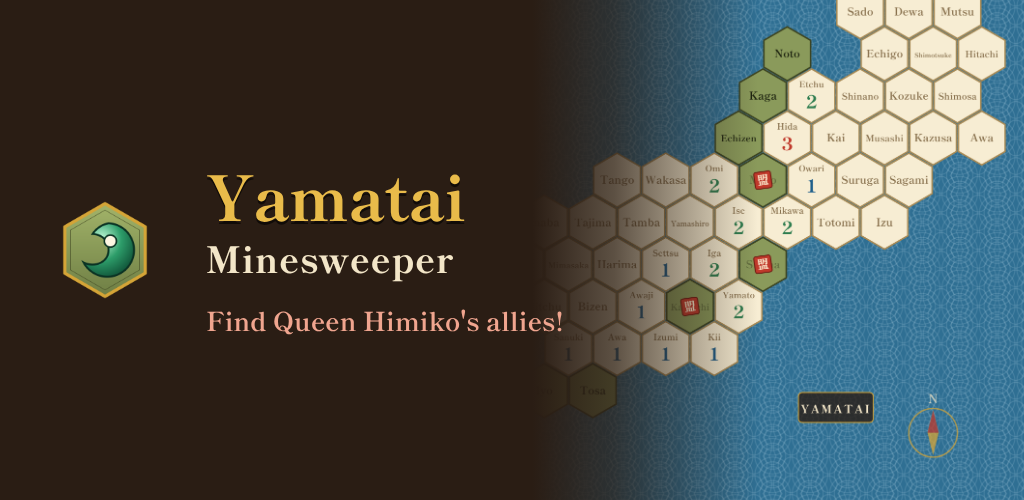
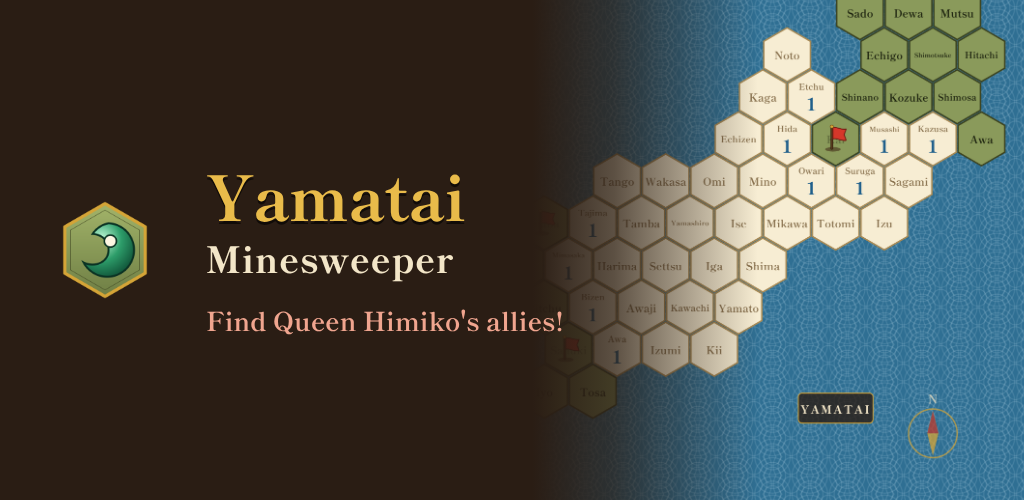
スマホの国名を大きく、印を旗に、掘るをスコップに。アプリの遊び方から PC 操作の説明を除く
- スマホでは国名・数字を大きくし、地図も少し拡大して始める
- 同盟国の印をマインスイーパーと同じ旗に（モードのボタンも「旗を立てる」）
- 「掘る」のボタンにスコップの絵
- アプリでは遊び方・ヒントに右クリックの説明を出さない
- ストア用のスクリーンショットと紹介文を更新

Claude-Session: https://claude.ai/code/session_01UXdYbqEGs7s62aediFc3mq

diff --git a/js/i18n.js b/js/i18n.js
@@ -16,9 +16,11 @@ const DICT = {
     'tool.sfx': '効果音',
     'tool.help': '遊び方',
     'tool.menu': 'トップに戻る',
-    'mode.dig': '⛏ 掘る',
-    'mode.mark': '<span class="mk">盟</span> 印をつける',
-    'hint': 'タップで掘る ・ 長押し／右クリックで同盟国の印 ・ 数字はとなりにある同盟国の数',
+    'mode.dig': '<svg class="ico" viewBox="0 0 40 40" aria-hidden="true"><use href="#i-shovel" width="40" height="40"/></svg> 掘る',
+    'mode.mark': '<svg class="ico" viewBox="0 0 40 40" aria-hidden="true"><use href="#i-mark" width="40" height="40"/></svg> 旗を立てる',
+    'hint': 'タップで掘る ・ 長押し{pc2}で旗を立てる ・ 数字はとなりにある同盟国の数',
+    'hint.pc': '／右クリック',
+    'help.pc': '（パソコンは右クリック）',
     'title.h': '邪馬台国<br>マインスイーパー',
     'title.lead': '女王・卑弥呼は、同盟を結んだ国々にお宝を贈った。<br>倭の国々を調べ、<strong>どの国が同盟国か</strong>を見つけ出せ。',
     'title.warn': 'ただし、同盟国の地を掘り荒らしてしまえば…<br>同盟は結び直され、お宝は散らばり、<strong>振り出し</strong>に戻る。',
@@ -34,8 +36,8 @@ const DICT = {
     'help.h': '遊び方',
     'help.rules': `<li>地図のマスは<strong>旧国（令制国）68か国</strong>。となり合う六角形が「となりの国」です。</li>
 <li>国を<strong>タップ</strong>すると掘って調べます。同盟国でなければ、<strong>となりにある同盟国の数</strong>が漢数字で現れます。</li>
-<li>同盟国だと思う国は<strong>長押し</strong>（パソコンは右クリック）か「印をつける」モードで<span class="mk">盟</span>の印をつけます。</li>
-<li>数字の国をタップすると、印の数が合っていればまわりを一気に掘れます。</li>
+<li>同盟国だと思う国には、<strong>長押し</strong>{pc}か「旗を立てる」モードで<span class="flag-ico"><svg class="ico" viewBox="0 0 40 40" aria-hidden="true"><use href="#i-mark" width="40" height="40"/></svg></span><strong>旗</strong>を立てます。</li>
+<li>数字の国をタップすると、立てた旗の数が合っていれば、まわりを一気に掘れます。</li>
 <li>同盟国を掘ってしまうと、贈られたお宝を掘り荒らしたことになり<strong>振り出し</strong>。卑弥呼は同盟を結び直し、お宝は別の国へ散らばります。</li>
 <li>同盟国でない国をすべて掘りきれば、卑弥呼の同盟国がすべて明らかになります。</li>`,
     'help.small': '最初のひと掘りでは、同盟国を掘ってしまうことはありません。',
@@ -99,9 +101,11 @@ const DICT = {
     'tool.sfx': 'Sound effects',
     'tool.help': 'How to play',
     'tool.menu': 'Back to top',
-    'mode.dig': '⛏ Dig',
-    'mode.mark': '<span class="mk">盟</span> Mark ally',
-    'hint': 'Tap to dig · Long-press / right-click to mark an ally · Numbers show allies in neighboring provinces',
+    'mode.dig': '<svg class="ico" viewBox="0 0 40 40" aria-hidden="true"><use href="#i-shovel" width="40" height="40"/></svg> Dig',
+    'mode.mark': '<svg class="ico" viewBox="0 0 40 40" aria-hidden="true"><use href="#i-mark" width="40" height="40"/></svg> Flag',
+    'hint': 'Tap to dig · Long-press{pc2} to plant a flag · Numbers show allies in neighboring provinces',
+    'hint.pc': ' / right-click',
+    'help.pc': ' (right-click on a computer)',
     'title.h': 'Yamatai<br>Minesweeper',
     'title.lead': 'Queen Himiko sent treasures to the provinces allied with her.<br>Search the old provinces of Japan and <strong>find out which ones are her allies</strong>.',
     'title.warn': 'But dig up an ally\'s land, and she forms new alliances —<br>the treasures scatter and you go <strong>back to square one</strong>.',
@@ -117,8 +121,8 @@ const DICT = {
     'help.h': 'How to play',
     'help.rules': `<li>The map shows the <strong>68 old provinces of Japan</strong>. Hexagons that touch are neighbors.</li>
 <li><strong>Tap</strong> a province to dig. If it is not an ally, a number shows <strong>how many allies</strong> are in the neighboring provinces.</li>
-<li><strong>Long-press</strong> (right-click on a computer) or use "Mark ally" mode to put a <span class="mk">盟</span> mark on a province you think is an ally.</li>
-<li>Tap a number when the right number of marks is around it to dig all the other neighbors at once.</li>
+<li><strong>Long-press</strong>{pc} or use "Flag" mode to plant a <span class="flag-ico"><svg class="ico" viewBox="0 0 40 40" aria-hidden="true"><use href="#i-mark" width="40" height="40"/></svg></span><strong>flag</strong> on a province you think is an ally.</li>
+<li>Tap a number when the right number of flags is around it to dig all the other neighbors at once.</li>
 <li>Dig up an ally and you have plundered Himiko's gift: <strong>back to square one</strong>. She forms new alliances, and the treasures scatter to new provinces.</li>
 <li>Dig every province that is not an ally, and all of Himiko's allies are revealed.</li>`,
     'help.small': 'Your first dig never hits an ally.',
@@ -184,9 +188,16 @@ const listeners = [];
 
 export const getLang = () => lang;
 
+// どの文にも使える値（Web 版とアプリで変わる操作の説明など）。関数ならそのつど呼ぶ
+const globals = {};
+export const setGlobals = (g) => Object.assign(globals, g);
+
 export function t(key, vars = {}) {
   const s = DICT[lang][key] ?? DICT.ja[key] ?? key;
-  return s.replace(/\{(\w+)\}/g, (_, k) => (vars[k] ?? ''));
+  return s.replace(/\{(\w+)\}/g, (_, k) => {
+    const v = vars[k] ?? globals[k];
+    return v === undefined ? '' : typeof v === 'function' ? v() : v;
+  });
 }
 
 // data-i18n（文字）・data-i18n-html（タグ入り）・data-i18n-title・data-i18n-href の付いた要素を書き換える

diff --git a/index.html b/index.html
@@ -65,9 +65,21 @@
       <rect x="-3.5" y="-8" width="7" height="13" rx="3" fill="url(#gJade)" stroke="#0b3324"/>
       <rect x="7" y="-4" width="7" height="12" rx="3" fill="url(#gJade)" stroke="#0b3324" transform="rotate(25 10 2)"/>
     </symbol>
+    <!-- 旗（同盟国だと思う国に立てる） -->
     <symbol id="i-mark" viewBox="-20 -20 40 40">
-      <rect x="-12" y="-12" width="24" height="24" rx="3" fill="#c0392b" stroke="#6e1a12" stroke-width="1.4" transform="rotate(-8)"/>
-      <text x="0" y="6" text-anchor="middle" font-size="17" fill="#fff3d6" font-weight="800" transform="rotate(-8)">盟</text>
+      <ellipse cx="-4" cy="15" rx="11" ry="3.2" fill="#3d2412" opacity=".55"/>
+      <rect x="-7" y="-17" width="3" height="32" rx="1.2" fill="#5a3a1c" stroke="#2a1a0c" stroke-width=".8"/>
+      <path d="M-4-16C2-18 7-12 15-14L12-6 15 2C7 4 2-2-4 0z" fill="#d6372a" stroke="#6e1a12" stroke-width="1.3" stroke-linejoin="round"/>
+      <circle cx="-5.5" cy="-17.5" r="2.2" fill="#e3b23c" stroke="#6b4310" stroke-width=".8"/>
+    </symbol>
+    <!-- スコップ（掘る） -->
+    <symbol id="i-shovel" viewBox="-20 -20 40 40">
+      <g transform="rotate(35)">
+        <rect x="-1.8" y="-17" width="3.6" height="19" rx="1.2" fill="#8a5a2b" stroke="#3d2412" stroke-width="1"/>
+        <rect x="-6.5" y="-19" width="13" height="4.5" rx="2.2" fill="#8a5a2b" stroke="#3d2412" stroke-width="1"/>
+        <path d="M-8 1H8V9C8 15 4 19 0 20C-4 19-8 15-8 9z" fill="#aab4bc" stroke="#3f474e" stroke-width="1.3" stroke-linejoin="round"/>
+        <path d="M-4 4V11" stroke="#e8eef2" stroke-width="1.6" stroke-linecap="round"/>
+      </g>
     </symbol>
   </svg>
 
@@ -90,8 +102,8 @@
 
     <div class="toolbar">
       <div class="mode" role="group" aria-label="操作の切り替え">
-        <button id="btn-dig" class="mode-btn on" aria-pressed="true" data-i18n="mode.dig">⛏ 掘る</button>
-        <button id="btn-mark" class="mode-btn" aria-pressed="false" data-i18n-html="mode.mark"><span class="mk">盟</span> 印をつける</button>
+        <button id="btn-dig" class="mode-btn on" aria-pressed="true" data-i18n-html="mode.dig"><svg class="ico" viewBox="0 0 40 40" aria-hidden="true"><use href="#i-shovel" width="40" height="40"/></svg> 掘る</button>
+        <button id="btn-mark" class="mode-btn" aria-pressed="false" data-i18n-html="mode.mark"><svg class="ico" viewBox="0 0 40 40" aria-hidden="true"><use href="#i-mark" width="40" height="40"/></svg> 旗を立てる</button>
       </div>
     </div>
 
@@ -100,7 +112,7 @@
       <div id="toast" aria-live="polite"></div>
     </main>
 
-    <footer class="hint" data-i18n="hint">タップで掘る ・ 長押し／右クリックでお宝の印 ・ 数字はとなりの国に眠るお宝の数</footer>
+    <footer class="hint" data-i18n="hint"></footer>
   </div>
 
   <!-- タイトル -->
@@ -156,15 +168,8 @@
       <p class="lead" data-i18n-html="title.lead"></p>
       <div class="treasure-row" id="help-treasures"></div>
       <p class="warn" data-i18n-html="title.warn"></p>
-      <ol class="rules" data-i18n-html="help.rules">
-        <li>地図のマスは<strong>旧国（令制国）68か国</strong>。となり合う六角形が「となりの国」です。</li>
-        <li>国を<strong>タップ</strong>すると掘ります。お宝がなければ、となりの国に眠るお宝の数が<strong>漢数字</strong>で現れます。</li>
-        <li>お宝がありそうな国は<strong>長押し</strong>（パソコンは右クリック）か「印」モードで<span class="mk">宝</span>の印をつけます。</li>
-        <li>数字の国をタップすると、印の数が合っていればまわりを一気に掘れます。</li>
-        <li>お宝を掘り当ててしまうと<strong>振り出し</strong>。お宝は別の国へ散らばります。</li>
-        <li>お宝のない国をすべて掘りきれば、卑弥呼のお宝はあなたのものです。</li>
-      </ol>
-      <p class="small" data-i18n="help.small">最初のひと掘りでは、お宝を掘り当てることはありません。</p>
+      <ol class="rules" data-i18n-html="help.rules"></ol>
+      <p class="small" data-i18n="help.small"></p>
       <button class="primary" data-close data-i18n="help.ok">わかった</button>
     </div>
   </div>

diff --git a/js/game.js b/js/game.js
@@ -1,6 +1,6 @@
 import { PROVINCES, buildNeighbors } from './map.js';
 import { sound } from './audio.js';
-import { t, getLang, applyI18n, setLang, onLangChange } from './i18n.js';
+import { t, getLang, applyI18n, setLang, onLangChange, setGlobals } from './i18n.js';
 
 // ---------- 定数 ----------
 const TREASURES = ['magatama', 'kinin', 'kagami', 'nishiki', 'katana', 'shinju', 'dotaku', 'kudatama'].map((id) => ({ id }));
@@ -121,8 +121,8 @@ function buildBoard() {
     const g = el('g', { class: 'tile', transform: `translate(${x.toFixed(2)},${y.toFixed(2)})`, tabindex: 0, role: 'gridcell', 'data-i': i }, layers.tiles);
     const body = el('g', { class: 'body' }, g);
     el('polygon', { class: 'hex', points: hexPoints(S - 1.2) }, body);
-    const name = el('text', { class: 'name', y: 4 }, body);
-    const num = el('text', { class: 'num', y: 13 }, body);
+    const name = el('text', { class: 'name', y: 0 }, body);
+    const num = el('text', { class: 'num', y: 15 }, body);
     el('use', { class: 'icon', href: '#i-magatama', x: -17, y: -17, width: 34, height: 34 }, body);
     el('use', { class: 'flag', href: '#i-mark', x: -15, y: -15, width: 30, height: 30 }, body);
     const title = el('title', {}, g);
@@ -184,7 +184,7 @@ function newBoard() {
   tileEls.forEach((t) => {
     t.g.setAttribute('class', 'tile');
     t.num.textContent = '';
-    t.name.setAttribute('y', 4);
+    t.name.setAttribute('y', 0);
   });
   // 埋めるお宝の種類だけ先に決める（場所は最初のひと掘りで決定）
   st.treasureSet = [];
@@ -304,7 +304,7 @@ function renderOpen(i, depth = 0) {
   setTimeout(() => {
     te.g.setAttribute('class', `tile open pop n${c.n}`);
     te.num.textContent = numText(c.n);
-    te.name.setAttribute('y', c.n ? -9 : 4);
+    te.name.setAttribute('y', c.n ? -11 : 0);
     te.g.setAttribute('aria-label', t(c.n ? 'tile.near' : 'tile.none', { p: pName(PROVINCES[i]), n: c.n }));
   }, depth * 45);
 }
@@ -422,11 +422,11 @@ function renderAll() {
     if (c.open) {
       t.g.setAttribute('class', `tile open n${c.n}`);
       t.num.textContent = numText(c.n);
-      t.name.setAttribute('y', c.n ? -9 : 4);
+      t.name.setAttribute('y', c.n ? -11 : 0);
     } else {
       t.g.setAttribute('class', `tile pop${c.flag ? ' flagged' : ''}`);
       t.num.textContent = '';
-      t.name.setAttribute('y', 4);
+      t.name.setAttribute('y', 0);
     }
   });
 }
@@ -456,7 +456,7 @@ function scatter(hitIndex) {
   tileEls.forEach((t, k) => {
     setTimeout(() => t.g.setAttribute('class', 'tile pop'), 150 + Math.random() * 500);
     t.num.textContent = '';
-    t.name.setAttribute('y', 4);
+    t.name.setAttribute('y', 0);
   });
 
   const hit = st.cells[hitIndex];
@@ -831,6 +831,8 @@ sound.bgmOn = store.get('bgm', true);
 sound.sfxOn = store.get('sfx', true);
 $('btn-bgm').classList.toggle('on', sound.bgmOn);
 $('btn-sfx').classList.toggle('on', sound.sfxOn);
+// スマホアプリでは、パソコン（右クリック）の操作説明は出さない
+setGlobals({ pc: () => (NATIVE ? '' : t('help.pc')), pc2: () => (NATIVE ? '' : t('hint.pc')) });
 applyI18n();
 buildBoard();
 newBoard();

diff --git a/style.css b/style.css
@@ -482,3 +482,22 @@ html[lang="en"] .level small { white-space: nowrap; font-size: 12px; }
 
 /* 印モードのボタンの「盟」 */
 .mode-btn .mk { display: inline-block; background: var(--shu); color: #fff3d6; padding: 0 .2em; border-radius: 4px; font-weight: 800; line-height: 1.3; transform: rotate(-6deg); }
+
+/* ボタンや説明の中の小さな絵（スコップ・旗） */
+.ico { width: 1.25em; height: 1.25em; vertical-align: -0.3em; }
+.flag-ico .ico { width: 1.4em; height: 1.4em; vertical-align: -0.35em; }
+.mode-btn .ico { margin-right: .1em; }
+/* スマホでは国名をさらに大きく、地図も少し拡大して始める */
+@media (max-width: 600px) {
+  .tile .name { font-size: 17.5px; }
+  .tile .num { font-size: 25px; }
+  .tile.open .name { font-size: 12px; }
+  .tile.open.n0 .name { font-size: 16px; }
+  html[lang="en"] .tile .name { font-size: calc(var(--fs, 11px) * 1.15); }
+  html[lang="en"] .tile.open .name { font-size: calc(var(--fs, 11px) * .92); }
+  html[lang="en"] .tile.open.n0 .name { font-size: calc(var(--fs, 11px) * 1.15); }
+}
+@media (max-width: 600px) and (max-aspect-ratio: 1/1) {
+  #board-wrap.zoom #board { min-height: 740px; }
+}
+.tile .name { dominant-baseline: central; }

diff --git a/README.md b/README.md
@@ -7,7 +7,7 @@
 ## 遊び方
 
 - 国（六角形のマス）をタップすると掘ります。数字（漢数字）は、となりにある同盟国の数です。
-- 同盟国だと思う国は、長押し（パソコンは右クリック）か「印をつける」モードで「盟」の印をつけます。
+- 同盟国だと思う国には、長押し（パソコンは右クリック）か「旗を立てる」モードで旗を立てます（アプリの遊び方には右クリックの説明は出しません）。
 - 数字の国をタップすると、印の数が合っていればまわりを一気に掘れます。
 - **同盟国を掘ってしまうと振り出し。** 贈られたお宝を掘り荒らしたことになり、卑弥呼は同盟を結び直して、お宝は別の国へ散らばります。最初からやり直しです（時間はそのまま進みます）。
 - 同盟国でない国をすべて掘りきればクリアです。
